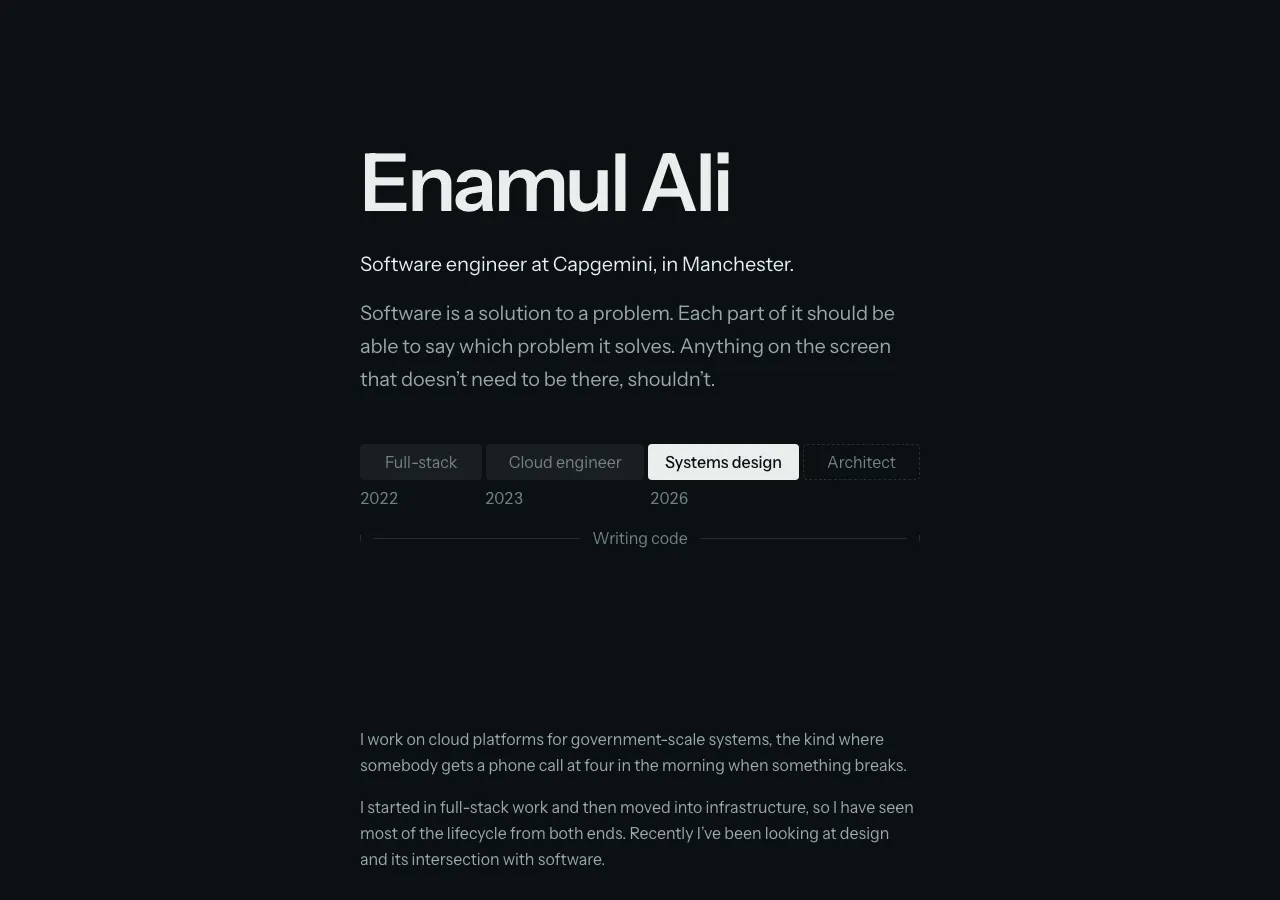
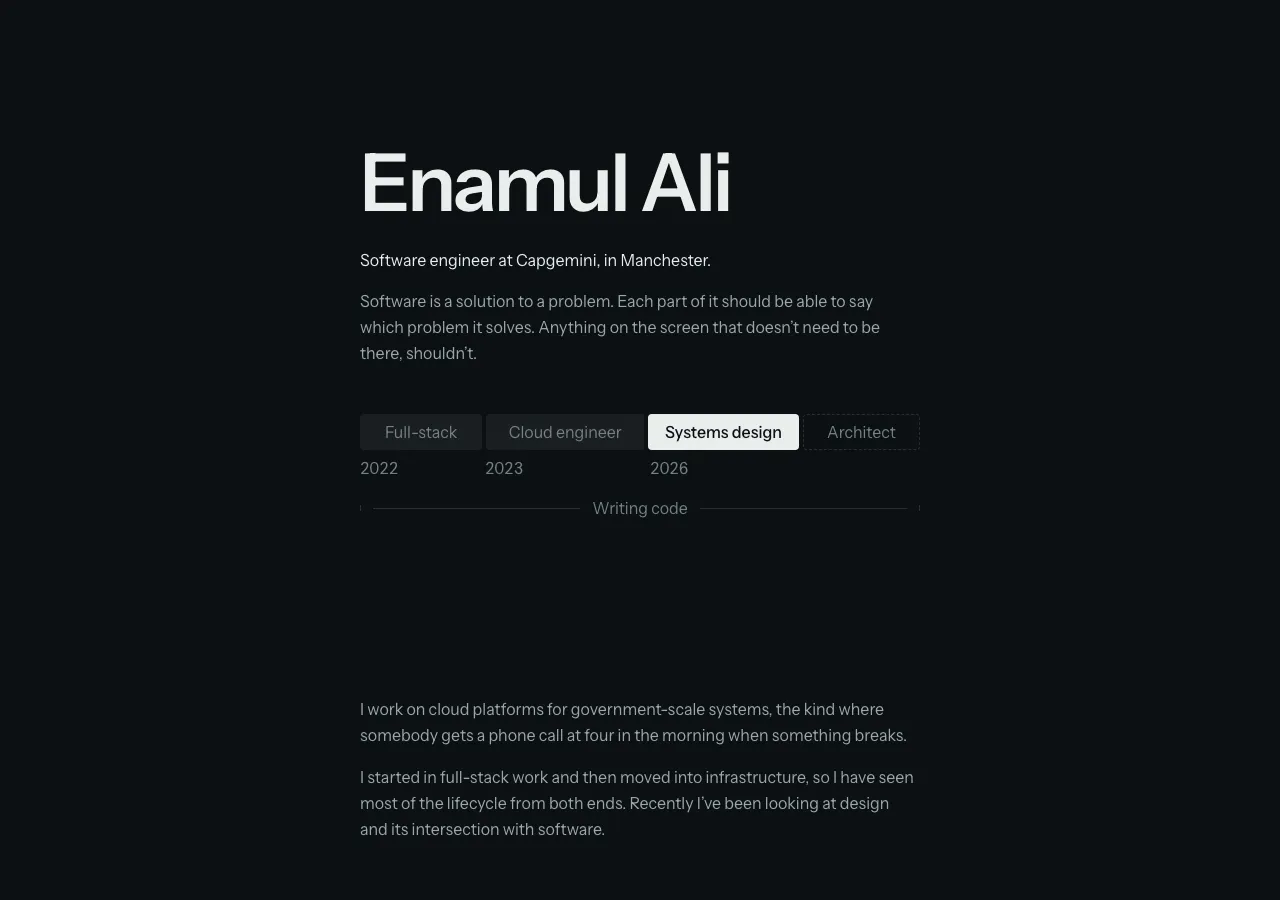
Use two type sizes: the name and the body

diff --git a/src/components/Comparison.jsx b/src/components/Comparison.jsx
@@ -28,8 +28,8 @@ export default function Comparison({ before, after, beforeAlt, afterAlt }) {
         <span data-comparison-knob="" className="absolute top-1/2 left-1/2 -translate-x-1/2 -translate-y-1/2 h-11 w-11 rounded-full border border-white/50 bg-white/12 inset-shadow-2xs inset-shadow-white/40 backdrop-blur-md" />
       </div>
 
-      <span className="absolute left-3 bottom-3 rounded-full bg-black/45 px-2.5 py-1 text-xs text-ink backdrop-blur-sm pointer-events-none">2025</span>
-      <span className="absolute right-3 bottom-3 rounded-full bg-black/45 px-2.5 py-1 text-xs text-ink backdrop-blur-sm pointer-events-none">Now</span>
+      <span className="absolute left-3 bottom-3 rounded-full bg-black/45 px-2.5 py-1 text-ink backdrop-blur-sm pointer-events-none">2025</span>
+      <span className="absolute right-3 bottom-3 rounded-full bg-black/45 px-2.5 py-1 text-ink backdrop-blur-sm pointer-events-none">Now</span>
     </div>
   );
 }

diff --git a/src/App.jsx b/src/App.jsx
@@ -15,8 +15,8 @@ export default function App() {
     <div className="mx-auto max-w-[38rem] px-6">
       <header className="pt-28 pb-32 sm:pt-36 sm:pb-44">
         <h1 className="display text-ink">Enamul Ali</h1>
-        <p className="lede mt-7 text-ink">Software engineer at Capgemini, in Manchester.</p>
-        <p className="lede mt-4 text-ink-dim">
+        <p className="mt-7 text-ink">Software engineer at Capgemini, in Manchester.</p>
+        <p className="mt-4 text-ink-dim leading-relaxed">
           Software is a solution to a problem. Each part of it should be able to say which problem it solves. Anything on the screen that doesn’t need to be there, shouldn’t.
         </p>
         <div className="mt-12">

diff --git a/src/index.css b/src/index.css
@@ -62,12 +62,6 @@ h1, h2, h3 {
   text-wrap: balance;
 }
 
-.lede {
-  font-size: clamp(1.05rem, 1.6vw, 1.25rem);
-  line-height: 1.65;
-  letter-spacing: -0.005em;
-}
-
 @media (prefers-reduced-motion: reduce) {
   * { transition: none !important; }
 }
